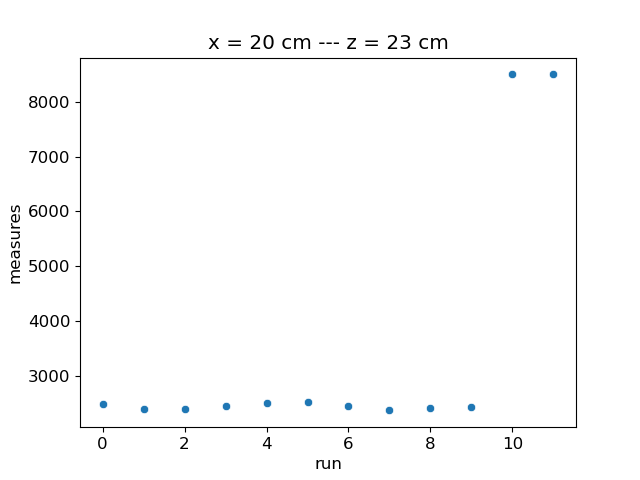
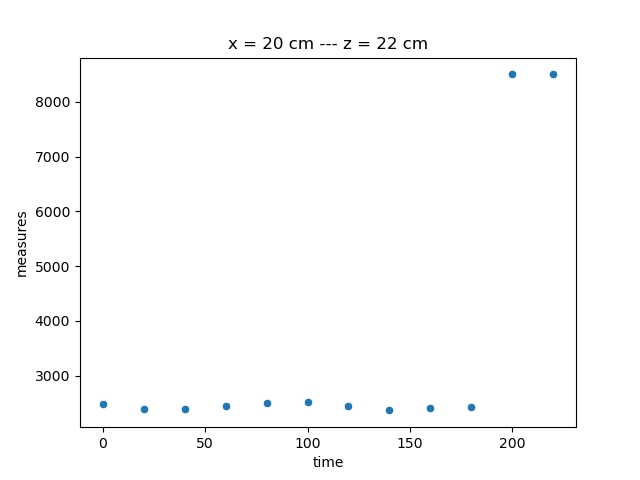
testes para resolver o problema de graficos

diff --git a/main.py b/main.py
@@ -41,7 +41,8 @@ class MainWidget(BoxLayout):
     def __init__(self, **kwargs):
         super(MainWidget, self).__init__(**kwargs)
         self.date = datetime.date.today()
-        Clock.schedule_interval(self.update, 30)
+        self.index = 0
+        Clock.schedule_interval(self.update, float(self.time))
 
     # Compile the new data to a dataframe
     def add_measure(self):
@@ -152,9 +153,11 @@ class MainWidget(BoxLayout):
         self.temperature = widget.text
 
     def update(self, dt):
-        count_over_time(self.folder_path, self.posx, self.posz)
-        self.plot_img = "imgs/count_over_time.png"
-        self.ids.img_plot.reload()
+        if self.ids.check_plot.active:
+            count_over_time(self.folder_path, self.posx, self.posz, self.time, self.index)
+            self.plot_img = "imgs/count_over_time.png"
+            self.ids.img_plot.reload()
+            self.index += 1
 
 class LabSepApp(App):
     pass

diff --git a/graphs.py b/graphs.py
@@ -5,27 +5,27 @@ from pathlib import Path
     
 plt.rcParams['font.size'] = 12
 
-def _get_data(folder_path):
+def _get_data(folder_path, time, index):
     files = list(Path(folder_path).glob('*.txt'))
     data = {
         'measures': [],
-        'run': []
+        'time': []
     }
 
-    for index, filename in enumerate(files):
+    for filename in files:
         df = pd.read_csv(filename, header=0, skiprows=4, sep=" ", skipinitialspace=True)
         data['measures'].append(df['GROSS'][0])
-        data['run'].append(index)
+        data['time'].append(time * index)
 
     data = pd.DataFrame(data)
     return data
 
-def count_over_time(folder_path, xpos, zpos):
-    data = _get_data(folder_path)
+def count_over_time(folder_path, xpos, zpos, time, index):
+    data = _get_data(folder_path, time, index)
 
     sns.scatterplot(
         data = data,
-        x = 'run',
+        x = 'time',
         y = 'measures'
     )
 
